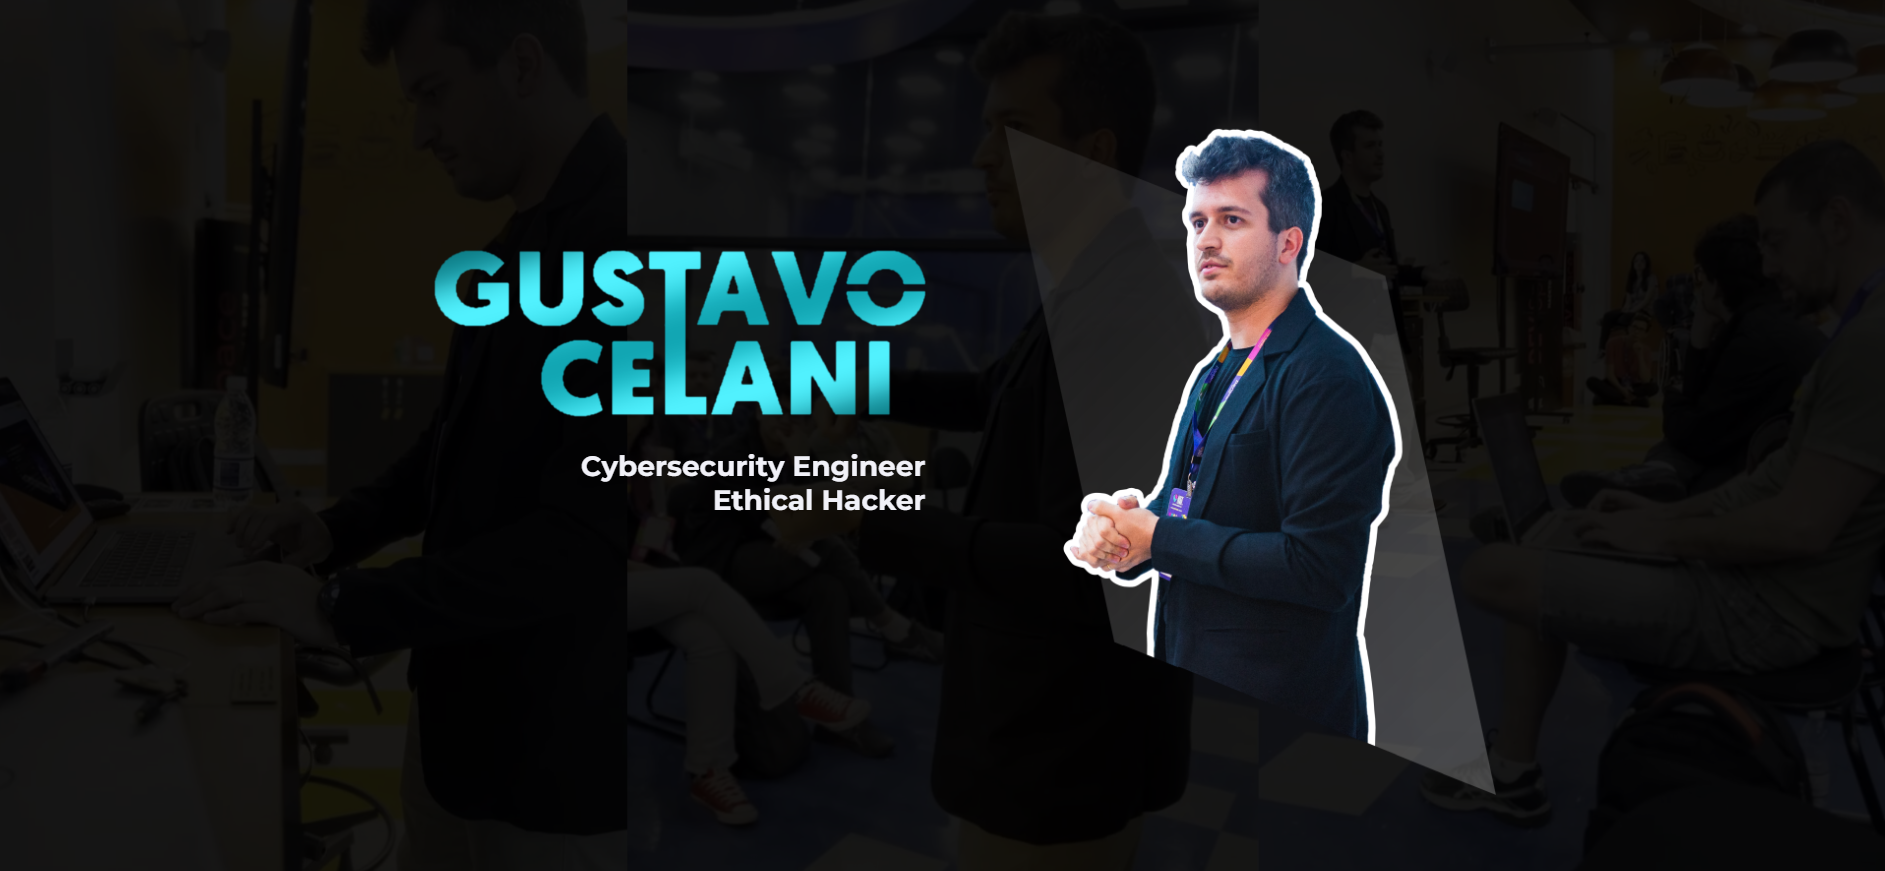
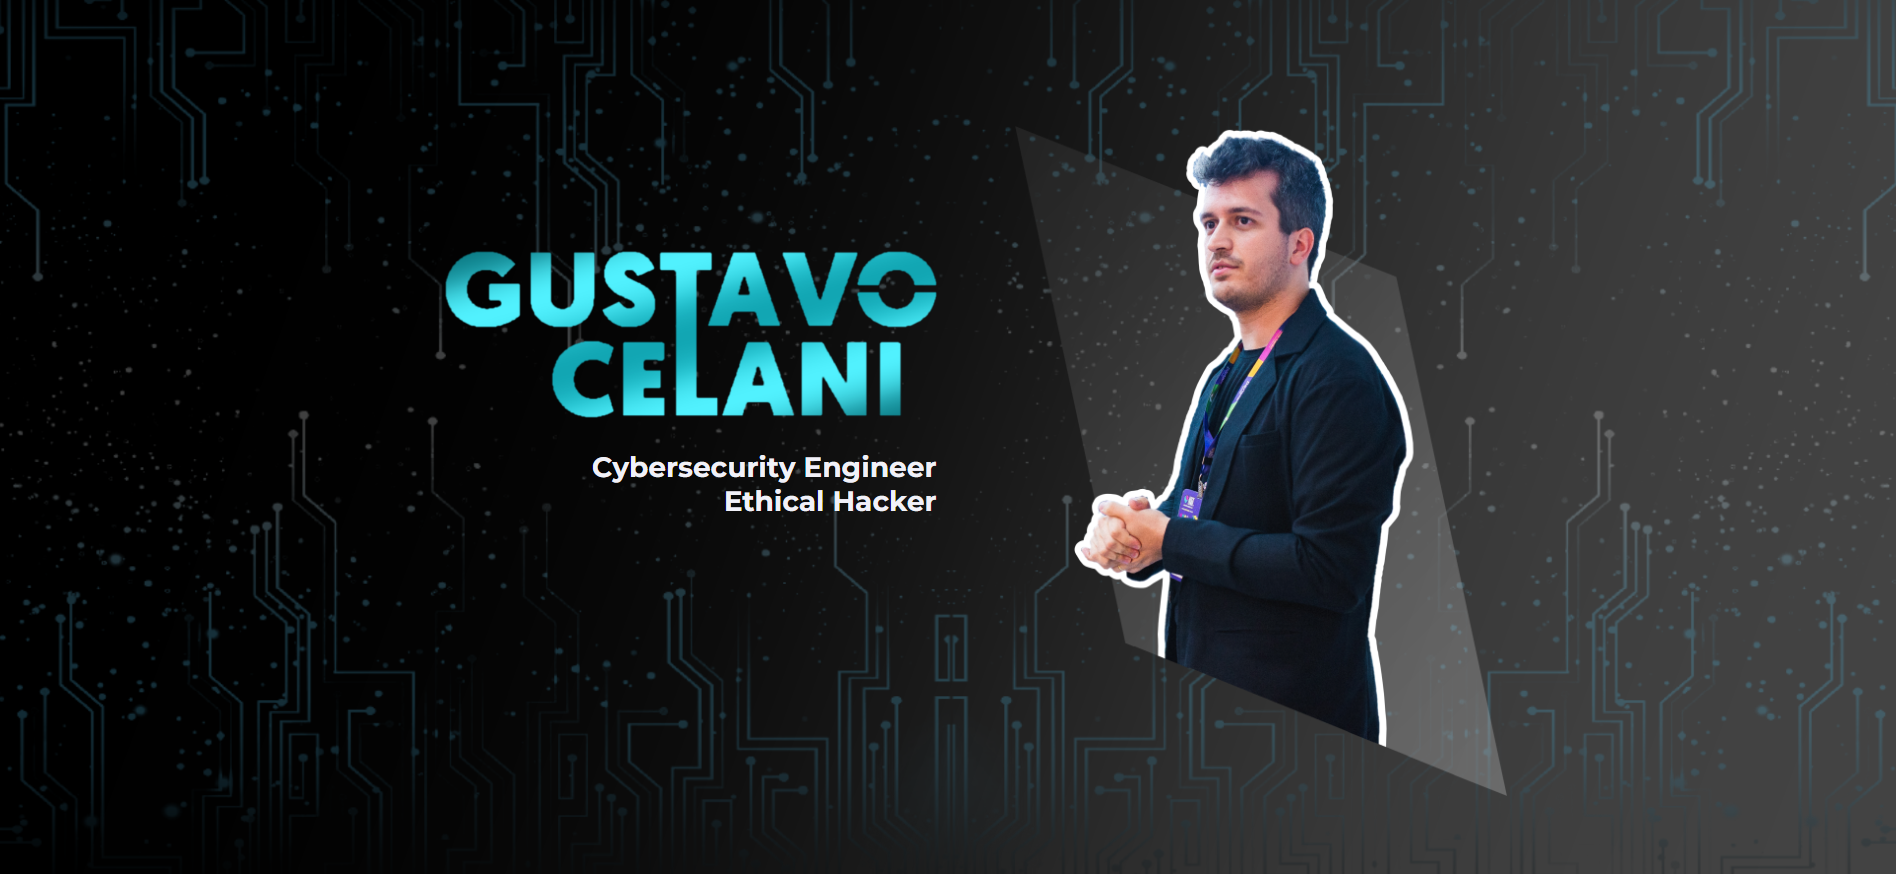
Contato Page

diff --git a/js/scripts.js b/js/scripts.js
@@ -13,28 +13,7 @@ const globalVersion = 0.2;
             $(parallaxSection).addClass('ios-device');
         })
     }
-})
-
-/***************************************************************************************************************************************************/
-/* Converted From (Call to Action Metric) Control */
-/***************************************************************************************************************************************************/
-var convertedFrom = 'WebSite'
-function setConvertedFrom(callToAction) {
-    convertedFrom = callToAction
-}
-
-/***************************************************************************************************************************************************/
-/* Pop-Up */
-/***************************************************************************************************************************************************/
-function spawnOnLoadPopup(afterSeconds) {
-    new Promise((resolve) => setTimeout(resolve, afterSeconds * 1000)).then(() => {
-        document.getElementById('onload-popup-button').click();
-    });
-}
-function closePopupAndSetConvertedFrom(closeButtonId, convertedFrom) {
-    document.getElementById(closeButtonId).click();
-    setConvertedFrom(convertedFrom);
-}
+});
 
 /***************************************************************************************************************************************************/
 /* Start JQuery */
@@ -65,23 +44,6 @@ function closePopupAndSetConvertedFrom(closeButtonId, convertedFrom) {
         startCardSlider();
         hidePreloader();
     });
-
-    /***************************************************************************************************************************************************/
-    /* Get Geolocation */
-    /***************************************************************************************************************************************************/
-    var latitude = null
-    var longitude = null
-
-    function getGeolocation() {
-        if (navigator.geolocation) {
-            navigator.geolocation.getCurrentPosition(showPosition);
-        }
-    }
-
-    function showPosition(position) {
-        latitude = position.coords.latitude
-        longitude = position.coords.longitude
-    }
 
     /***************************************************************************************************************************************************/
     /* Navbar Scripts */

diff --git a/contato.html b/contato.html
@@ -137,6 +137,18 @@
                         <a style="margin-bottom: 0;" class="btn-solid-lg text-center" href="mailto:contato@gustavocelani.com"><i class="fas fa-envelope"></i></a>
                         <h4 class="blue" style="margin-top: 0.5rem;"><b>contato@gustavocelani.com</b></h4>
                     </div>
+
+                    <!-- Instagram -->
+                    <div class="offset-lg-2 col-lg-4 text-center" style="margin-top: 4rem;">
+                        <a style="margin-bottom: 0;" class="btn-solid-lg text-center" target="_blank" href="https://www.instagram.com/jornadaprofissaohacker/"><i class="fab fa-instagram"></i></a>
+                        <h4 class="blue" style="margin-top: 0.5rem;"><b>@jornadaprofissaohacker</b></h4>
+                    </div>
+
+                    <!-- Facebook -->
+                    <div class="col-lg-4 text-center" style="margin-top: 4rem;">
+                        <a style="margin-bottom: 0;" class="btn-solid-lg text-center" target="_blank" href="https://www.facebook.com/profile.php?id=100090641258762"><i class="fab fa-facebook"></i></a>
+                        <h4 class="blue" style="margin-top: 0.5rem;"><b>Jornada Profissão Hacker</b></h4>
+                    </div>
                 </div> <!-- end of Banner row -->
             </div> <!-- end of container -->
         </div> <!-- end of header-content -->
@@ -180,7 +192,7 @@
                         <h4>Redes Sociais</h4>
 
                         <span class="fa-stack">
-                            <a id="whatsapp" class="event-socials-whatsapp" href="https://wa.me/message/7IENGKNI76BBO1" target="_blank">
+                            <a id="whatsapp" class="event-socials-whatsapp" href="whatsapp.html" target="_blank">
                                 <i class="fas fa-circle fa-stack-2x"></i>
                                 <i class="fab fa-whatsapp fa-stack-1x"></i>
                             </a>

diff --git a/index.html b/index.html
@@ -94,7 +94,7 @@
                     <a class="nav-link page-scroll" href="media-kit.html">MEDIA KIT</a>
                 </li>
                 <li class="nav-item">
-                    <a class="nav-link page-scroll" href="#footer">CONTATO</a>
+                    <a class="nav-link page-scroll" href="contato.html">CONTATO</a>
                 </li>
             </ul>
 
@@ -128,10 +128,10 @@
                 <!-- Banner row -->
                 <div class="row">
 
-                    <!-- Background Video -->
+                    <!-- Background Video
                     <video onloadstart="this.playbackRate = 0.8;" autoplay muted loop id="headerBackgroundVideo">
                         <source src="videos/header-video.mp4" type="video/mp4">
-                    </video>
+                    </video> -->
 
                     <!-- Left -->
                     <div class="col-lg-6">

diff --git a/css/styles.css b/css/styles.css
@@ -902,7 +902,7 @@ input[type='checkbox'] {
 }
 
 .header {
-	background: linear-gradient(to bottom right, rgba(72, 72, 212, 0), rgba(241, 104, 104, 0)), url('../images/backgrounds/hand-bw.jpg') center center no-repeat;
+	background: linear-gradient(to bottom right, rgba(72, 72, 212, 0), rgba(241, 104, 104, 0)), url('../images/backgrounds/background.png') center center no-repeat;
 	background-size: cover;
 	position: relative;
 

diff --git a/whatsapp.html b/whatsapp.html
@@ -26,7 +26,7 @@
     <!-- Website Title -->
     <title>Jornada Profissão Hacker</title>
     <!-- Favicon  -->
-    <link rel="icon" href="images/logos/jornada-favicon.png">
+    <link rel="icon" href="images/logos/gc-favicon.png">
 
     <!-- Redirecting -->
     <meta http-equiv="refresh" content="0; url='https://wa.me/message/7IENGKNI76BBO1'"/>
